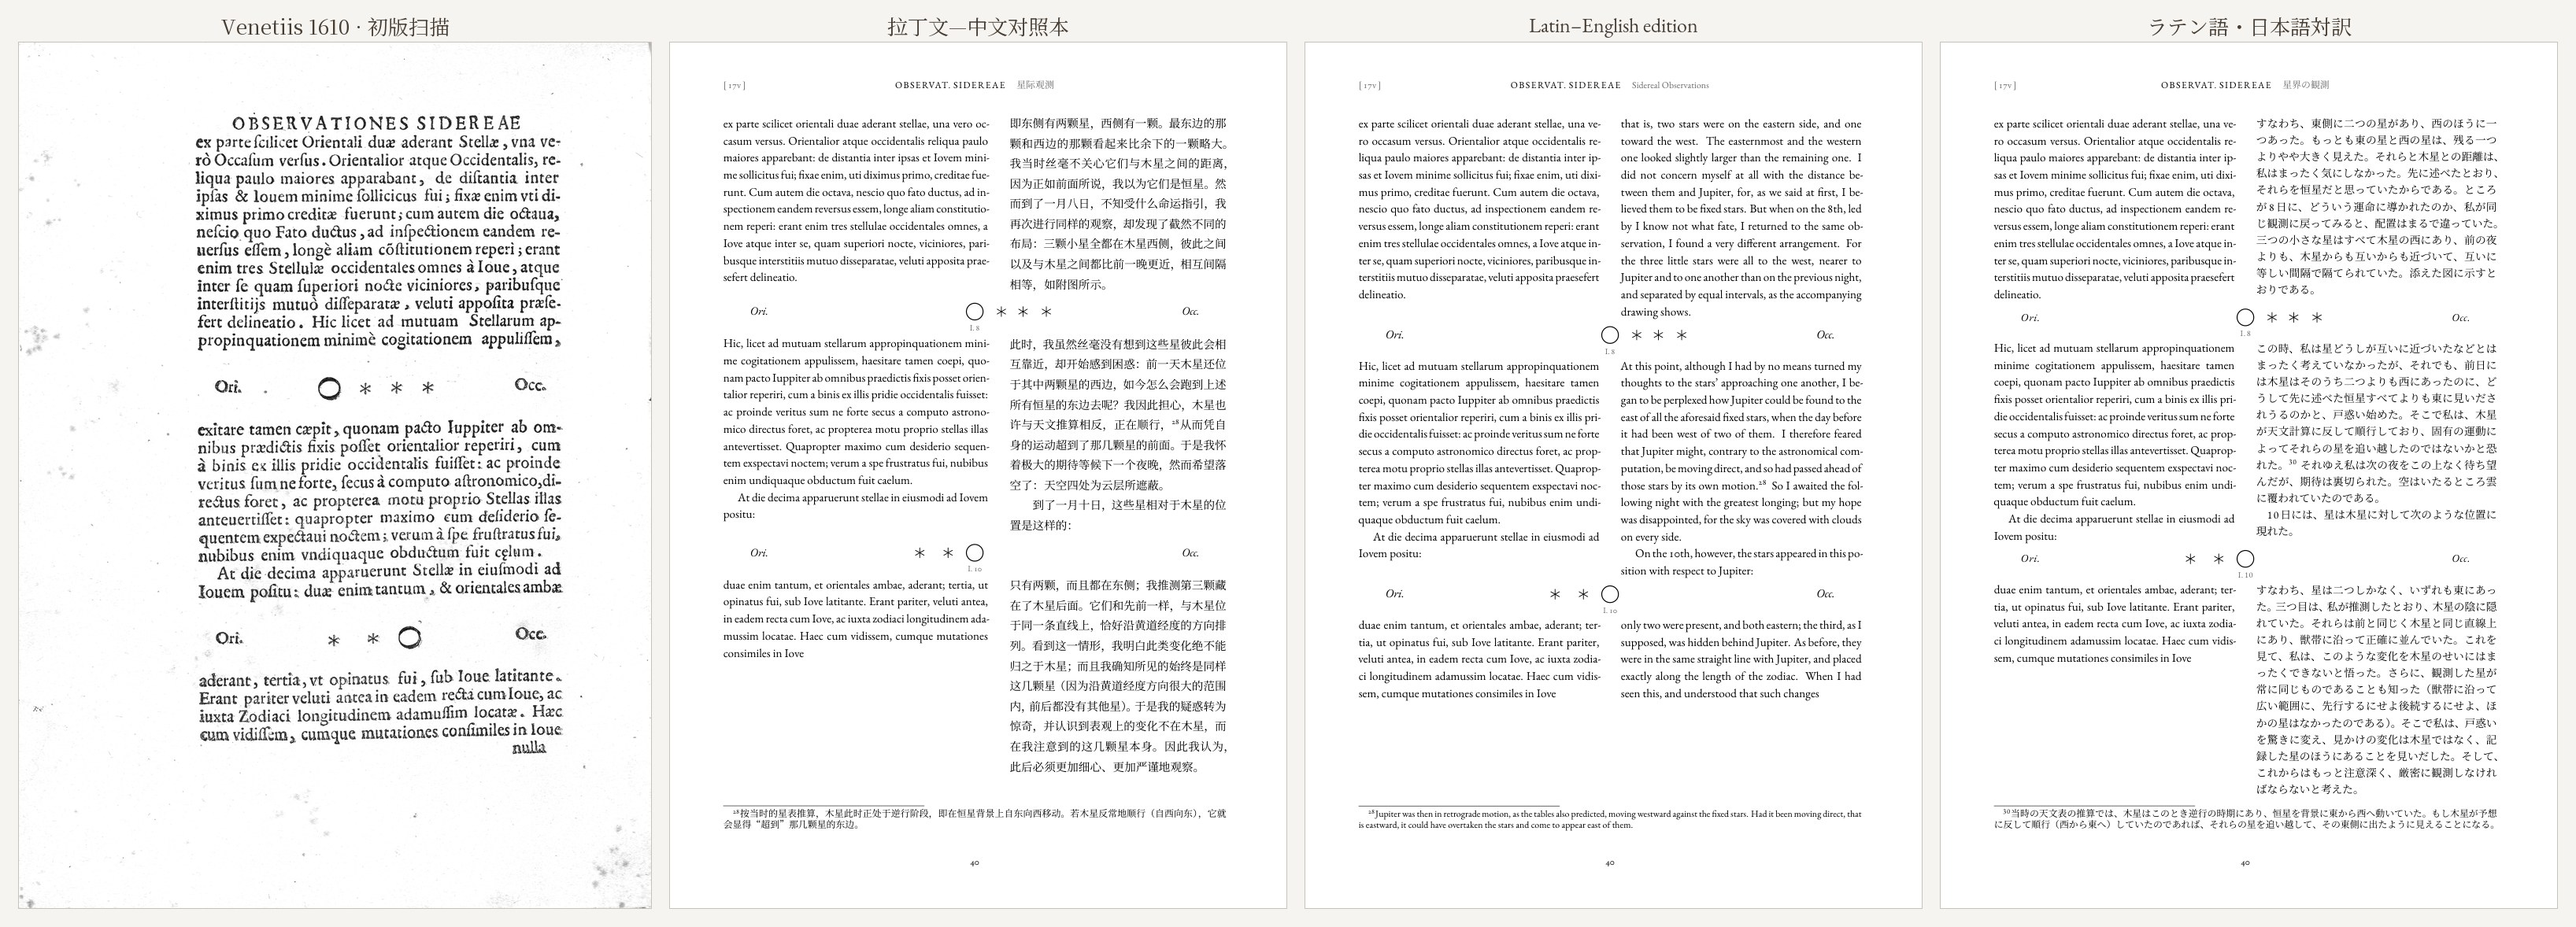
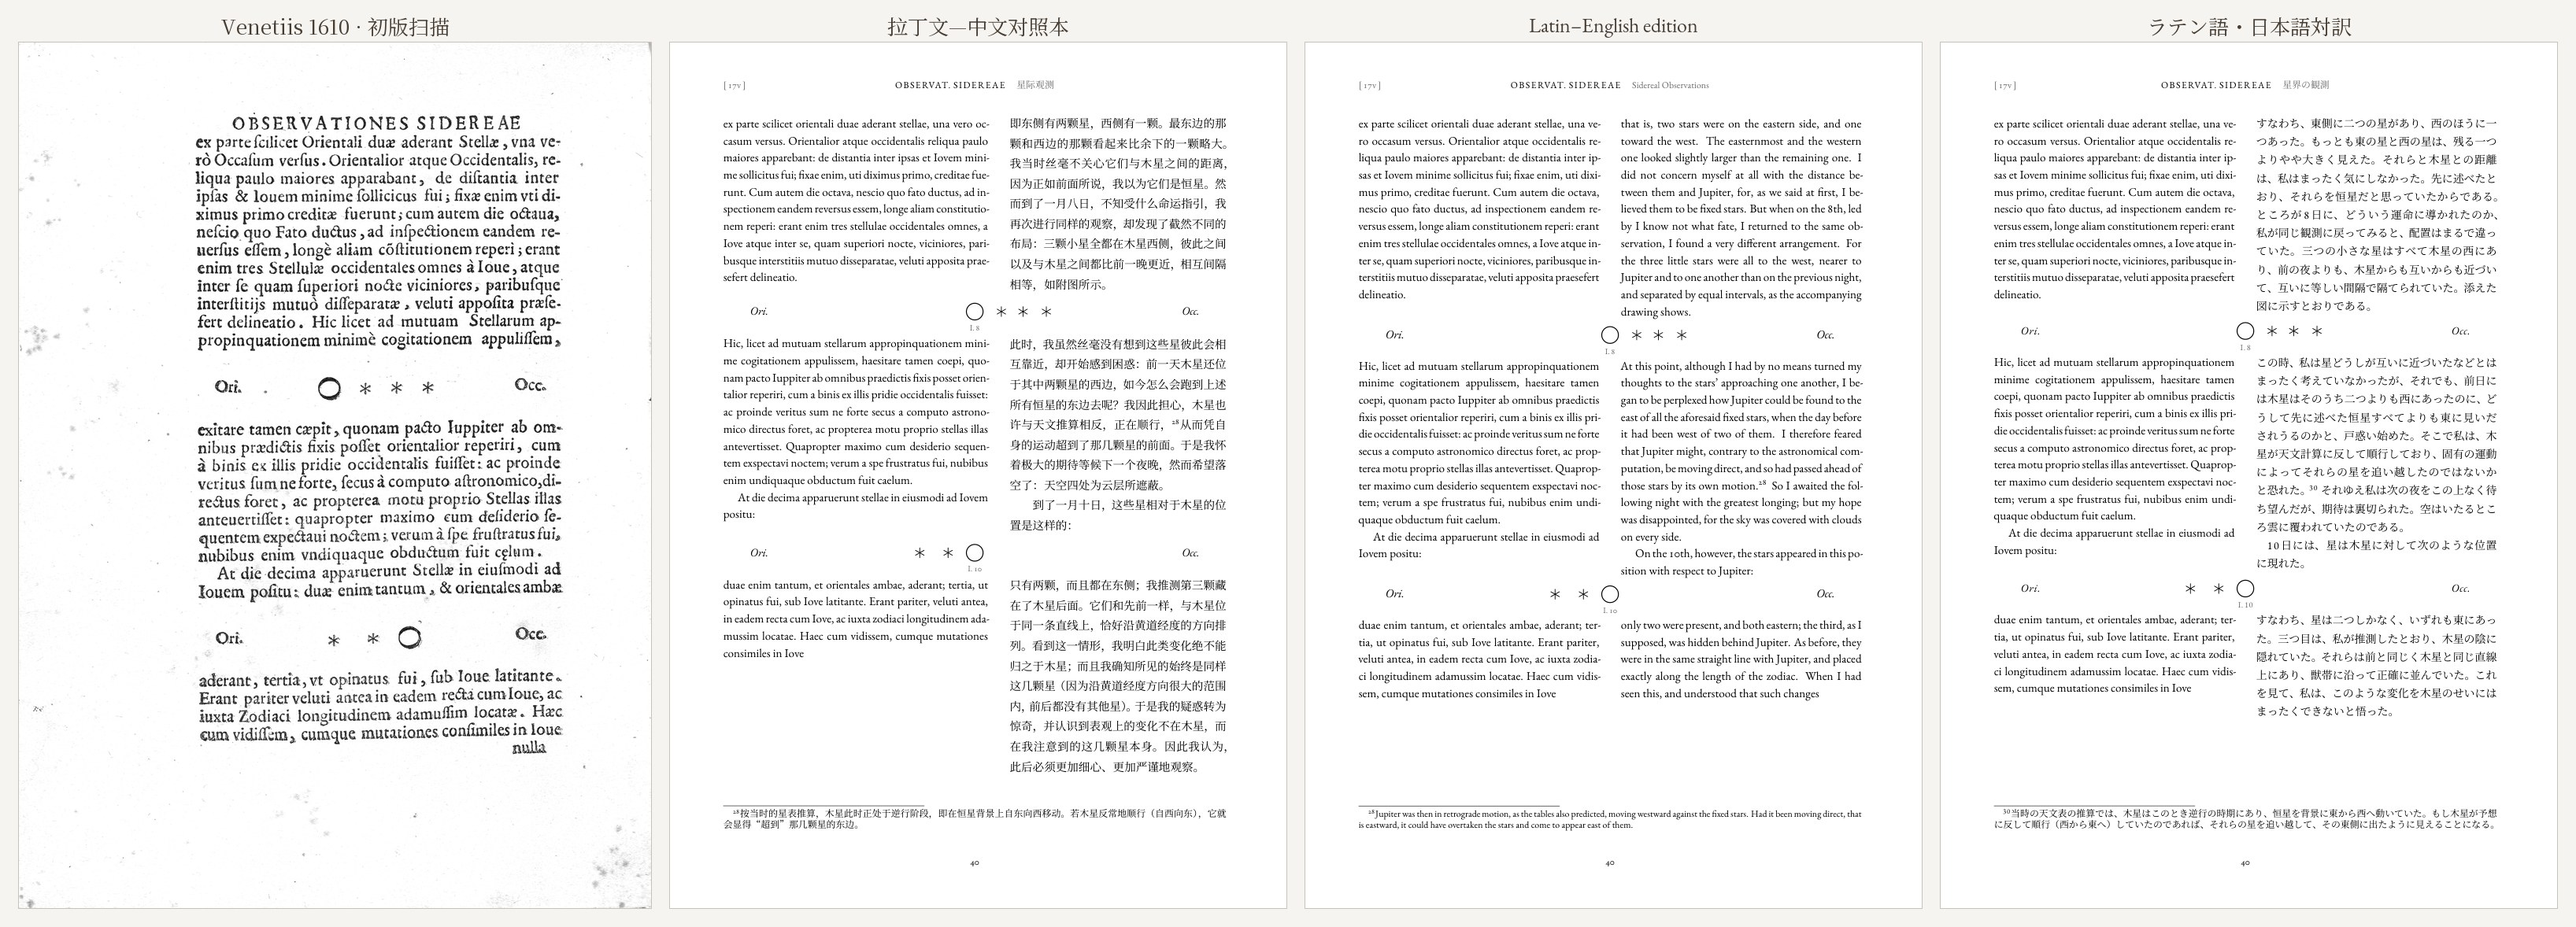
Japanese edition: split cross-page sentences at the matching clause
The 48 sentences that run across a page of the 1610 print now carry the
page marker in the Japanese too, at the clause boundary that best matches
the Latin break, so no page starts its Japanese column with a blank.
Pages refitted (5 tightened, was 14); title-page note, README and
guidelines describe the rule.

Changed region(s): [[0.7793, 0.1222, 0.9664, 0.8557]]

diff --git a/front/title_ja.tex b/front/title_ja.tex
@@ -17,7 +17,7 @@
 \textbf{凡例}\quad
 ラテン語本文は A. Favaro 編『ガリレオ著作集』国家版第3巻（1892）を底本とし、1610年ヴェネツィア初版と1ページずつ照合した。初版はスミソニアン図書館所蔵本（Internet Archive によるデジタル化）による。綴りは現代化した。æ、œ は ae、oe と書き分け、長い s（ſ）は s とし、u と v は音価によって区別し、i はそのままとした（\textit{Iuppiter, Ianuarii}）。略語はすべて展開し、綴りは古典的な形に統一した（\textit{quattuor, numquam, intellego, exspecto}）。普通名詞は小文字とし、天体名（\textit{Sol, Luna, Tellus, Iuppiter}）は大文字を残した。
 
-本書の1ページは初版の1ページに対応する。柱は初版の柱をそのまま写し、外側の角括弧内に初版の丁付を示した（[7r] は第7丁の表）。ラテン語は初版と同じ箇所でページを改め、ページをまたいで分かれた単語はその語の始まるページに置いた。日本語は語順がラテン語と異なるため文単位で配置し、ラテン語の文が始まるページに置いた。
+本書の1ページは初版の1ページに対応する。柱は初版の柱をそのまま写し、外側の角括弧内に初版の丁付を示した（[7r] は第7丁の表）。ラテン語は初版と同じ箇所でページを改め、ページをまたいで分かれた単語はその語の始まるページに置いた。ページをまたぐ文は、日本語でもできるだけ対応する節の切れ目でページを改めた。語順の違いから厳密には対応しない箇所がある。
 
 書体は初版の使い分けに従った。初版のローマン体は正体、日本語は明朝体とし、イタリック体はイタリック、日本語は教科書体とした。初版が大文字で強調した語は字間を空けた大文字とし、日本語では傍点を付した。常用漢字外の字と特別な読みの語には、初出に限りルビを付した。
 

diff --git a/work/review/ja_breaks.md b/work/review/ja_breaks.md
@@ -1,0 +1,85 @@
+# Japanese: page markers in sentences that cross a page (§8)
+
+48 sentences, 48 marked. `≈` = the Japanese order made the split approximate (some Latin
+words before the break land after the marker in Japanese, or the reverse); the note says
+which. Unmarked = the Japanese before the marker renders essentially the Latin before the break
+(at most a word or two of order difference).
+
+Text changes beyond inserting the marker (three entries):
+- p002.10: the footnote (天の中央の要／東の角) moved from the end of the entry to the end of the
+  first Japanese sentence, so it stays on page 3r with the phrase it explains.
+- p013.06: one clause reordered into two sentences: 「まず月を間近に眺めた。⟦6v⟧地球の直径の二倍ほどしか離れていないかのようであった。」 (was 「まず月を、地球の直径の二倍ほどしか離れていないかのように、間近に眺めた。」).
+- p020.10: a 、 added after the subject: 「月の本体ABCが、⟦13r⟧蒸気の球層DEGに取り巻かれている。」
+
+## part1.yaml
+
+| key | marker | placement |
+|---|---|---|
+| p002.01 | ⟦2v⟧ | 石や金属にではなく、⟦2v⟧ムーサたちの守護と |
+| p002.06 | ⟦3r⟧ | あたかも舌のように、⟦3r⟧殿下のこのうえなく卓越した徳を |
+| p002.10 | ⟦3v⟧ | 大気の中に注ぎ出したのです。\footnote{…}⟦3v⟧それは、柔らかな小さいお体が (Latin *ut universam* falls before) |
+| p002.16 | ⟦4r⟧ ≈ | ご祖先のことはさておくとしても、⟦4r⟧もっとも偉大な英雄よ (relative clause precedes its noun in Japanese, so *historiarum monumenta testantur* lands before) |
+| p009.01 | ⟦5v⟧ | 見るも楽しいことである。⟦5v⟧こうして月の直径は (*per duas tantum easdem dimensiones distaret* lands before) |
+| p012.01 | ⟦6r⟧ | 考え出すきっかけを、⟦6r⟧私はまず手短に述べ |
+| p013.06 | ⟦6v⟧ | まず月を間近に眺めた。⟦6v⟧地球の直径の二倍ほどしか (reordered, see above) |
+| p013.13 | ⟦7r⟧ | しかしレンズを置くと、⟦7r⟧屈折した線ECH、EDIに沿って |
+| p014.01 | ⟦7v⟧ ≈ | 向いている月の面について、⟦7v⟧まず述べよう。 (*vergit* lands before) |
+
+## part2.yaml
+
+| key | marker | placement |
+|---|---|---|
+| p015.02 | ⟦8r⟧ | 小さな斑点がおびただしくあって、⟦8r⟧暗い部分からは (*exiguarum copia* lands before) |
+| p016.06 | ⟦9r⟧ | 小さな尖りが輝き始めた。⟦9r⟧そうするうちに (*exiguae lucere coeperunt* lands before) |
+| p016.11 | ⟦9v⟧ ≈ | 見えるにちがいないと、⟦9v⟧一度も疑ったことがない。 (Latin after the break is only *daturam*; Japanese puts the main verb last, so *mihi dubium fuit numquam* lands after) |
+| p019.01 | ⟦11v⟧ | 大きな斑点にも、⟦11v⟧図に記したとおり、 (*exsistunt quidem* lands after) |
+| p020.02 | ⟦12r⟧ | 東の半円周が、⟦12r⟧そして満月では |
+| p020.06 | ⟦12v⟧ ≈ | 広がっているように見える。⟦12v⟧波の間には (*idem planum videntur extensi* lands before) |
+| p020.10 | ⟦13r⟧ | 月の本体ABCが、⟦13r⟧蒸気の球層DEGに (、 added) |
+| p022.02 | ⟦13v⟧ | CFは2000、⟦13v⟧CEは1000となり |
+| p022.05 | ⟦14r⟧ | ある頂を表しており、⟦14r⟧4イタリア・マイルを超える高さ (*eminentior est* lands after) |
+
+## part3.yaml
+
+| key | marker | placement |
+|---|---|---|
+| p024.03 | ⟦14v⟧ ≈ | 輝く角そのものが隠され、⟦14v⟧月の球の残りの部分は (*si quis talem sibi eligat situm* = 位置を選ぶならば lands after, verb-last) |
+| p024.09 | ⟦15r⟧ | わかる。すなわち、⟦15r⟧月をぐるりと取り巻く (*radiorum solarium* lands after) |
+| p024.16 | ⟦15v⟧ | 地球をかすかに照らす。⟦15v⟧月が上弦に近づくにつれて |
+| p024.21 | ⟦16r⟧ | もっとも強く照らされる時期には、⟦16r⟧逆に月が |
+| p025.04 | ⟦16v⟧ | 次の事実からたやすくわかる。⟦16v⟧日没の最初の薄明 |
+| p026.02 | ⟦16a\,r⟧ | at the end, after the footnote (as in the Latin) |
+| p028.01 | ⟦16b\,v⟧ | 遠眼鏡を向けるなら、⟦16b\,v⟧密集した星の群れに |
+
+## part4.yaml
+
+| key | marker | placement |
+|---|---|---|
+| p032.02 | ⟦17v⟧ | at the end: 次のようであった。⟦17v⟧ |
+| p033.04 | ⟦18r⟧ ≈ | 木星のせいにはまったくできないと悟った。⟦18r⟧さらに、 (*nulla ratione reponi posse intellegerem* lands before) |
+| p035.01 | ⟦18v⟧ | 次のように並んでいた。⟦18v⟧東の星は |
+| p038.02 | ⟦19r⟧ | 三番目の星は、⟦19r⟧わずかに北へ |
+| p040.02 | ⟦19v⟧ | 東の星はただ一つで、⟦19v⟧木星から3分 |
+| p042.04 | ⟦20r⟧ ≈ | 第5時には、この星が、⟦20r⟧木星と東の星の間の (*manifeste vidi* = はっきり見えた lands after) |
+| p043.06 | ⟦20v⟧ | わずかに南へそれて、⟦20v⟧もっとも西の星から10秒 |
+| p045.07 | ⟦21r⟧ | at the end: 1分20秒であった。⟦21r⟧ |
+| p047.04 | ⟦21v⟧ | しかし第6時には、⟦21v⟧星は二つしか現れず (*duae* lands after; footnote stays with the 配置 phrase) |
+| p050.01 | ⟦22r⟧ | 日没後第1時には、⟦22r⟧小さな星がただ一つだけ (*unica tantum* lands after) |
+| p053.03 | ⟦22v⟧ | 東の二つの星は、⟦22v⟧互いにいっそう近づいていた (*viciniores* lands after) |
+
+## part5.yaml
+
+| key | marker | placement |
+|---|---|---|
+| p056.01 | ⟦23r⟧ | 1分30秒離れ、⟦23r⟧木星にもっとも近い西の星は |
+| p059.01 | ⟦23v⟧ | 二つの星だけが現れ、⟦23v⟧木星をあいだにはさんでいた |
+| p062.01 | ⟦24r⟧ | 東の星が二つ、⟦24r⟧西の星が一つあり |
+| p064.03 | ⟦24v⟧ | 第四の星が見えた。⟦24v⟧ほかの星より小さく |
+| p066.03 | ⟦25r⟧ | 西の二つのうち、⟦25r⟧木星から遠いほうの星は |
+| p068.01 | ⟦25v⟧ | 東の星は木星から7分、⟦25v⟧木星は西の次の星から5分 |
+| p070.04 | ⟦26r⟧ | 次の星から3分、⟦26r⟧次の星は木星から1分50秒 |
+| p074.02 | ⟦26v⟧ | 木星からの距離も等しく、⟦26v⟧4分であった (*aequales* lands before) |
+| p076.01 | ⟦27r⟧ | 木星にもっとも近い星は30秒、⟦27r⟧西の次の星は2分30秒 |
+| p078.01 | ⟦27v⟧ | 四つの星が見え、⟦27v⟧すべて東にあった |
+| p080.01 | ⟦28r⟧ | 記録をここに添えたのは、⟦28r⟧それによって、 |
+| p081.05 | ⟦28v⟧ | 四つのさまよう星を示している。⟦28v⟧しかもそれらすべてが (*offert stellas* lands before) |

diff --git a/work/JA_TRANSLATION.md b/work/JA_TRANSLATION.md
@@ -24,8 +24,8 @@ begins, so you do not deal with pages at all.
   One entry per Latin sentence key, no more, no fewer. Use `>-` for prose and `|-` for
   special blocks (keeps their line breaks). Never merge two Latin sentences into one entry
   or move content between entries: if Japanese wants different sentence boundaries, you may
-  use several Japanese sentences inside one entry. Japanese word order differs from the
-  Latin, so a sentence is never split across pages: do not write page markers ⟦…⟧.
+  use several Japanese sentences inside one entry. Do not write page markers ⟦…⟧ while
+  translating; they are added afterwards (§8).
 - Check your file: `PYTHONIOENCODING=utf-8 python tools/check_translation.py ja text/ja/partN.yaml p015 p022`
   (completeness, LaTeX sanity, Chinese-text check, compiles your pages). It must say
   "OK, no problems". Pages "running long" are fine: page fitting is done afterwards.
@@ -131,3 +131,20 @@ New terms you decide on: list them at the end of your notes file.
 Write `work/notes/ja_partN.md`: range done, check result, new glossary decisions, passages
 where you were unsure (key + why), and footnotes you added or dropped compared with the
 Chinese and English editions.
+
+## 8. Page breaks inside a sentence (added after the first build)
+
+48 Latin sentences run across a page of the 1610 print; their Latin carries the page marker
+(⟦2v⟧ …). Without a marker in the Japanese, the whole Japanese sentence goes to the earlier
+page and the next page's Japanese column starts with a blank. So the Japanese gets the same
+marker(s), at a **clause boundary** — after 、 or 。, or between two Japanese sentences inside the
+entry — chosen so that the Japanese before the marker renders, as nearly as Japanese allows,
+the Latin before the break. Rules:
+- natural Japanese first: never inside a word, never between a modifier and its noun or a
+  noun and its particle; light reordering of clauses inside the entry is allowed only if the
+  Japanese stays natural and faithful;
+- where the Japanese order inverts the Latin (verb last, relative clauses before the noun),
+  take the clause boundary that best matches the amount of Latin on each side;
+- a footnote stays attached to the phrase it explains;
+- the same number of markers as the Latin sentence, same labels (`list_breaks.py ja` lists
+  them; `check_translation.py` checks the count).
